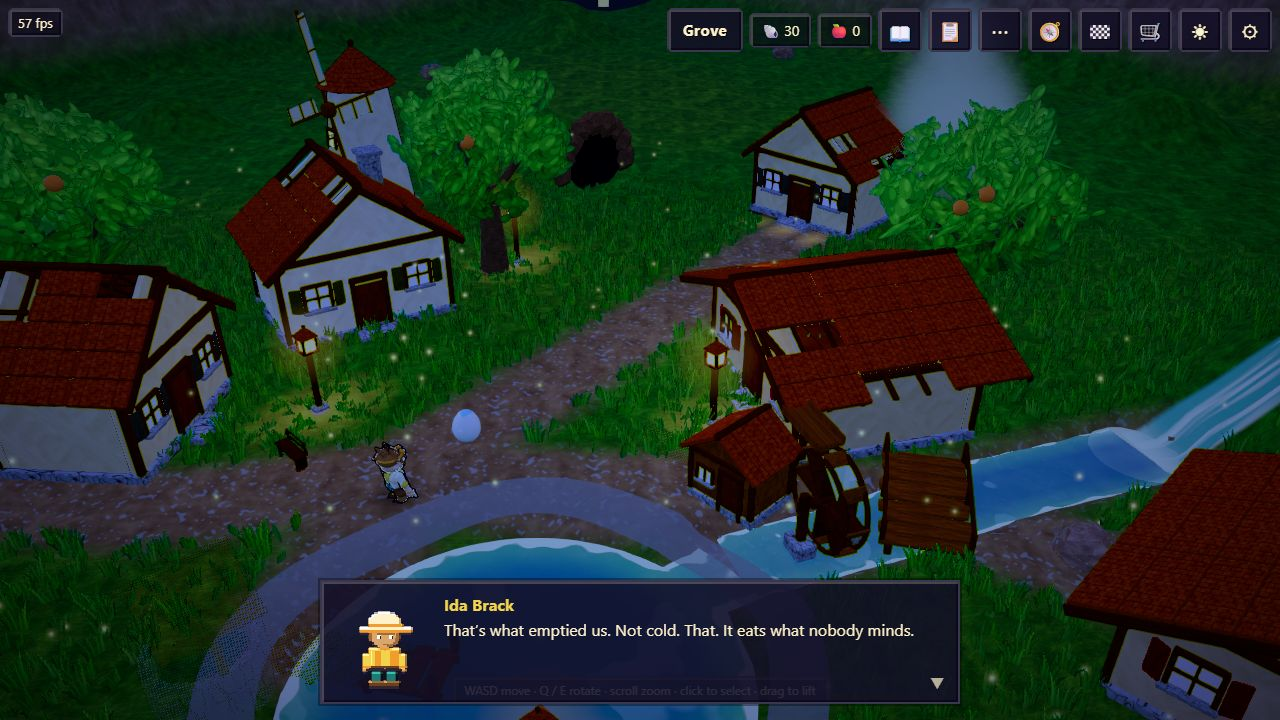
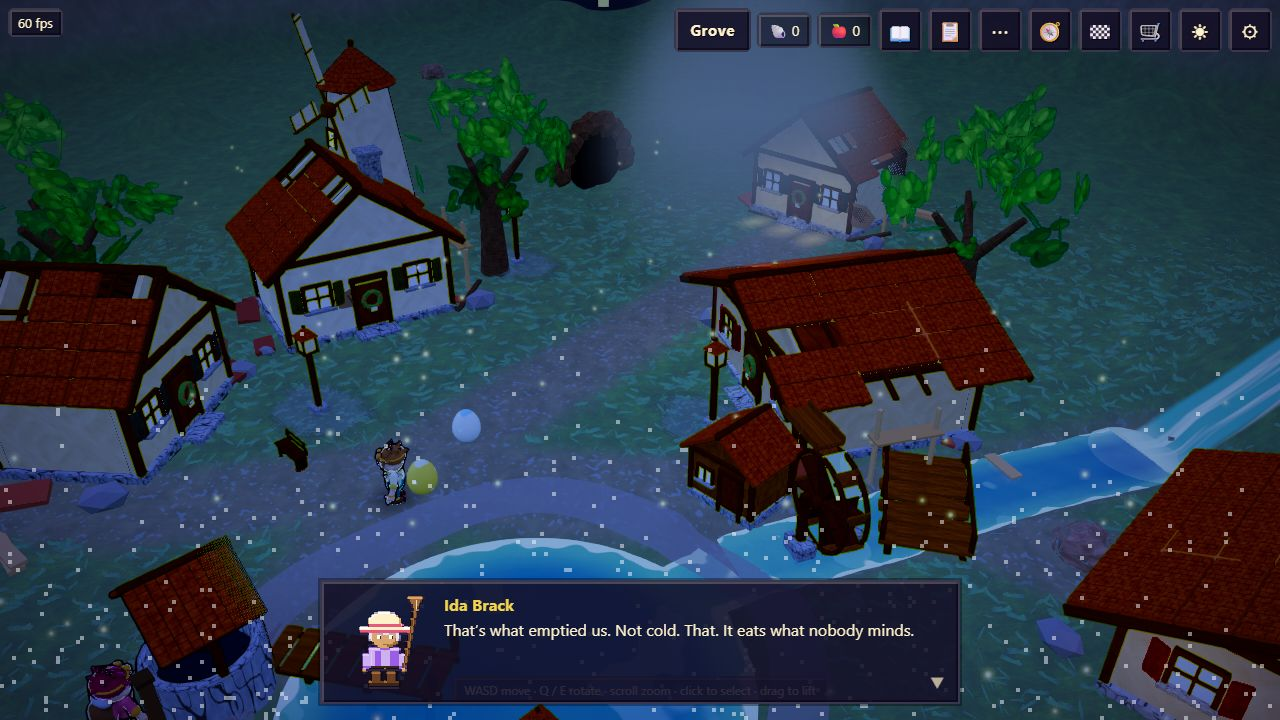
Make the Hush ring and 3D colossus read; freeze stream with pond
Ring starts at the nearest lamp; ice holds in Hazel chapters 10-12 in both renderers and the stream freezes with it.

diff --git a/src/render/dress-w.ts b/src/render/dress-w.ts
@@ -25,7 +25,8 @@ import { RasterAtlas } from './paint/atlas';
 import { FROST_PX, paintFrostDecal } from './paint/frost-w';
 import { paintSnowCrown } from './paint/scenery';
 import { pondOutline } from './paint/shore';
-import { ICE_MARGIN, paintPondIce } from './paint/terrain';
+import { ICE_MARGIN, paintPondIce, paintStreamIce } from './paint/terrain';
+import { iceRibbon } from './ice-ribbon';
 import { stageFlags } from './scene-stage';
 import { SCENERY } from './scenery';
 import { isSceneryHidden } from './scenery-hide';
@@ -70,12 +71,16 @@ function iceGeometry(): ShapeGeometry {
   return geo;
 }
 
-/** Whether this scene wants the pond frozen: its own `pondIce` prop, else Hazel's chapter 10. */
+/**
+ * Whether this scene wants the pond (and the stream) frozen: its own `pondIce` prop, else
+ * Hazel's chapters 10 to 12 (the frost line, the winter, and chapter 12's "cold and very
+ * bright" morning). Both renderers ask this, so they agree.
+ */
 export function pondIceWanted(stage: SceneStage, campaign: string, chapter: number): boolean {
   const own = stage.props?.pondIce;
   if (own === 'show') return true;
   if (own === 'hide') return false;
-  return campaign === 'hazel' && chapter === 10;
+  return campaign === 'hazel' && chapter >= 10 && chapter <= 12;
 }
 
 /**
@@ -190,6 +195,7 @@ class PixelW implements PixelDressing {
   private ctx: PixelDressCtx | null = null;
   private ice: Mesh<ShapeGeometry, MeshBasicMaterial> | null = null;
   private ground: WinterGround | null = null;
+  private stream: Mesh | null = null;
   private crowns: SpriteSheet | null = null;
   private crownsTried = false;
   private decal: SpriteSheet | null = null;
@@ -221,6 +227,20 @@ class PixelW implements PixelDressing {
       ctx.track(geo);
       ctx.track(mat);
       this.ice = ice;
+      // The stream freezes with it: two strips of ice along the river.
+      const st = paintStreamIce();
+      const sm = new MeshBasicMaterial({ map: st, depthWrite: false, side: DoubleSide });
+      const group = new Mesh();
+      for (const line of [GROVE.river.inflow, GROVE.river.outflow]) {
+        const g = iceRibbon(line, GROVE.river.width + 0.1, CG2_W.ice.pixelY + 0.001);
+        ctx.track(g);
+        group.add(new Mesh(g, sm));
+      }
+      group.visible = false;
+      ctx.groups.grove.add(group);
+      ctx.track(st);
+      ctx.track(sm);
+      this.stream = group;
       this.ground = new WinterGround(ctx);
       if (ctx.sprites) {
         const atlas = new RasterAtlas(256);
@@ -268,6 +288,7 @@ class PixelW implements PixelDressing {
     if (this.ice) {
       const on = home && pondIceWanted(stage, flags.campaign, flags.chapter);
       this.ice.visible = on;
+      if (this.stream) this.stream.visible = on;
       if (on) this.ice.material.color.setScalar(0.5 + 0.5 * (1 - daylight.darkness));
     }
 
@@ -351,6 +372,8 @@ class PixelW implements PixelDressing {
   dispose(): void {
     this.ice?.removeFromParent();
     this.ice = null;
+    this.stream?.removeFromParent();
+    this.stream = null;
     this.ground?.dispose();
     this.ground = null;
     this.ctx = null;

diff --git a/src/render3d/dress-w.ts b/src/render3d/dress-w.ts
@@ -9,7 +9,8 @@ import { pondIceWanted } from '../render/dress-w';
 import { lanternLights, SceneClock } from '../render/dress-e';
 import { HushTrail } from '../render/hush-trail';
 import { LineClock } from '../render/line-clock';
-import { ICE_MARGIN, paintPondIce } from '../render/paint/terrain';
+import { iceRibbon } from '../render/ice-ribbon';
+import { ICE_MARGIN, paintPondIce, paintStreamIce } from '../render/paint/terrain';
 import { stageFlags } from '../render/scene-stage';
 import type { World } from '../sim/types';
 import type { Dress3dCtx, Dressing3d } from './dressings';
@@ -54,6 +55,7 @@ class Dress3dW implements Dressing3d {
   readonly id = 'w';
   private ctx: Dress3dCtx | null = null;
   private ice: THREE.Mesh | null = null;
+  private stream: THREE.Group | null = null;
   private frost: FrostDecals | null = null;
   private owned: Array<{ dispose(): void }> = [];
   private grass: THREE.MeshStandardMaterial | null = null;
@@ -107,6 +109,25 @@ class Dress3dW implements Dressing3d {
     ctx.world3d.add(ice);
     this.owned.push(tex, geo, mat);
     this.ice = ice;
+    const st = paintStreamIce();
+    const sm = new THREE.MeshStandardMaterial({
+      side: THREE.DoubleSide,
+      map: st,
+      roughness: 0.25,
+      emissive: '#9bbfdc',
+      emissiveMap: st,
+      emissiveIntensity: CG2_W.ice.glow3d,
+    });
+    const group = new THREE.Group();
+    for (const line of [GROVE.river.inflow, GROVE.river.outflow]) {
+      const g = iceRibbon(line, GROVE.river.width + 0.9, WATER_LEVEL + CG2_W.ice.lift3d);
+      this.owned.push(g);
+      group.add(new THREE.Mesh(g, sm));
+    }
+    group.visible = false;
+    ctx.world3d.add(group);
+    this.owned.push(st, sm);
+    this.stream = group;
     this.frost = new FrostDecals(ctx.world3d, LANTERN_POSTS);
     void ctx.compile(ice);
   }
@@ -147,6 +168,7 @@ class Dress3dW implements Dressing3d {
     // C7: the pond's ice.
     if (this.ice) {
       this.ice.visible = home && pondIceWanted(stage, flags.campaign, flags.chapter);
+      if (this.stream) this.stream.visible = this.ice.visible;
       (this.ice.material as THREE.MeshStandardMaterial).emissiveIntensity =
         CG2_W.ice.glow3d * (1 - 0.7 * daylight.darkness);
     }
@@ -196,6 +218,8 @@ class Dress3dW implements Dressing3d {
   dispose(): void {
     this.ice?.removeFromParent();
     this.ice = null;
+    this.stream?.removeFromParent();
+    this.stream = null;
     this.frost?.dispose();
     this.frost = null;
     for (const o of this.owned) o.dispose();

diff --git a/src/render/ice-ribbon.ts b/src/render/ice-ribbon.ts
@@ -1,0 +1,46 @@
+import { BufferGeometry, CatmullRomCurve3, Float32BufferAttribute, Vector3 } from 'three';
+
+/**
+ * C7: the stream freezes with the pond. A flat strip of ice along a river's centre line,
+ * `width` across, lying at height `y`, with UVs across 0..1 and along in tile lengths so the
+ * painted stream ice repeats down it. Shared by the pixel and 3D dressings (pure geometry).
+ */
+export function iceRibbon(
+  line: ReadonlyArray<{ x: number; z: number }>,
+  width: number,
+  y: number,
+): BufferGeometry {
+  const curve = new CatmullRomCurve3(
+    line.map((p) => new Vector3(p.x, y, p.z)),
+    false,
+    'centripetal',
+    0.5,
+  );
+  const n = line.length * 6;
+  const across = 4;
+  const cols = across + 1;
+  const verts: number[] = [];
+  const uvs: number[] = [];
+  const idx: number[] = [];
+  for (let i = 0; i <= n; i++) {
+    const t = i / n;
+    const p = curve.getPoint(t);
+    const d = curve.getTangent(t);
+    for (let k = 0; k < cols; k++) {
+      const s = (k / across) * 2 - 1;
+      verts.push(p.x - d.z * width * 0.5 * s, y, p.z + d.x * width * 0.5 * s);
+      uvs.push(k / across, t * n * 0.5);
+    }
+    if (i < n)
+      for (let k = 0; k < across; k++) {
+        const a = i * cols + k;
+        idx.push(a, a + cols, a + 1, a + 1, a + cols, a + cols + 1);
+      }
+  }
+  const geo = new BufferGeometry();
+  geo.setAttribute('position', new Float32BufferAttribute(verts, 3));
+  geo.setAttribute('uv', new Float32BufferAttribute(uvs, 2));
+  geo.setIndex(idx);
+  geo.computeVertexNormals();
+  return geo;
+}

diff --git a/src/render/paint/terrain.ts b/src/render/paint/terrain.ts
@@ -209,3 +209,30 @@ export function paintPondIce(size = 192): CanvasTexture {
   const tex = r.toTexture(true);
   return tex;
 }
+
+/** A tileable sheet of stream ice: pale blue, a few cracks and frozen bubbles. */
+export function paintStreamIce(size = 64): CanvasTexture {
+  const r = new Raster(size, size, hex('#d3e7f3'));
+  for (let y = 0; y < size; y++)
+    for (let x = 0; x < size; x++) {
+      // Sampled on a torus so the tile wraps.
+      const a = (x / size) * Math.PI * 2;
+      const b = (y / size) * Math.PI * 2;
+      const n = fbm(
+        Math.cos(a) * 2 + Math.cos(b) * 2 + 5,
+        Math.sin(a) * 2 + Math.sin(b) * 2 + 5,
+        3,
+        311,
+      );
+      let c = mix(hex('#e6f3fb'), hex('#a9cde6'), n);
+      if (
+        ridged(Math.cos(a) * 3 + Math.cos(b) * 3, Math.sin(a) * 3 + Math.sin(b) * 3, 2, 312) > 0.9
+      )
+        c = hex('#ffffff');
+      r.set(x, y, c);
+    }
+  const tex = r.toTexture(true);
+  tex.wrapS = RepeatWrapping;
+  tex.wrapT = RepeatWrapping;
+  return tex;
+}

diff --git a/src/render/dress-e.ts b/src/render/dress-e.ts
@@ -48,12 +48,16 @@ export function lanternLights(
   // M11: the ring runs outward from the Hush, nearest post first.
   const sid = flags.sceneId;
   const goes = sid !== null && HUSH.out.includes(sid);
+  // The ring runs out from the nearest post, so the first lamp goes with the line itself.
+  const near = Math.min(
+    ...LANTERN_POSTS.map((p) => Math.hypot(p.x - HUSH.origin.x, p.z - HUSH.origin.z)),
+  );
   const comes = sid !== null && HUSH.back.includes(sid);
   if (goes || comes) {
     for (const p of LANTERN_POSTS) {
       const d = Math.hypot(p.x - HUSH.origin.x, p.z - HUSH.origin.z);
       // `sceneT` is seconds since the first line showed (C8); below 0 it is not up yet.
-      const gone = sceneT >= 0 && (reduce || sceneT >= HUSH.delay + d / HUSH.speed);
+      const gone = sceneT >= 0 && (reduce || sceneT >= HUSH.delay + (d - near) / HUSH.speed);
       out[p.id] = goes ? (gone ? 'out' : 'lit') : gone ? 'lit' : 'out';
     }
   }

diff --git a/src/config/tuning-w.ts b/src/config/tuning-w.ts
@@ -36,10 +36,12 @@ export const CG2_W = {
     pixelY: 7.6,
     pixelOpacity: 0.8,
     /** 3D colossus scale against the stock card, and its fog-coloured rim. */
-    scale3d: 0.42,
-    opacity3d: 0.85,
+    scale3d: 0.6,
+    opacity3d: 0.95,
     /** 3D colossus centre height above the ground: its foot fades out at the ground. */
-    y3d: 4,
+    y3d: 7,
+    /** 3D: how far the card stands toward the camera from the Hush's mark, so the shot has headroom for it. */
+    z3d: 13,
     rimColor: '#dfe7f2',
     /** Frost decals under put-out lanterns: radius (world units), seconds to grow, tint. */
     frostRadius: 2.1,

diff --git a/src/render3d/hush-card.ts b/src/render3d/hush-card.ts
@@ -33,8 +33,8 @@ export function hushCardTexture(): THREE.CanvasTexture {
     blob(64, 88, 40 + grow, 46 + grow, a * 0.9, rgb);
     blob(64, 46, 24 + grow, 24 + grow, a, rgb);
   };
-  body(9, 0.5, rimRgb);
-  body(0, 0.82, '132,140,158');
+  body(7, 0.28, rimRgb);
+  body(0, 1, '84,92,112');
   g.globalCompositeOperation = 'destination-in';
   const fade = g.createLinearGradient(0, 0, 0, 192);
   fade.addColorStop(0, 'rgba(0,0,0,1)');

diff --git a/src/render3d/dress-e.ts b/src/render3d/dress-e.ts
@@ -119,7 +119,7 @@ class Dress3dE implements Dressing3d {
     this.colossus.position.set(
       HUSH.origin.x,
       groveHeight(HUSH.origin.x, HUSH.origin.z) + CG2_W.hush.y3d,
-      HUSH.origin.z,
+      HUSH.origin.z + CG2_W.hush.z3d,
     );
     this.colossus.visible = false;
     this.root.add(this.colossus);
